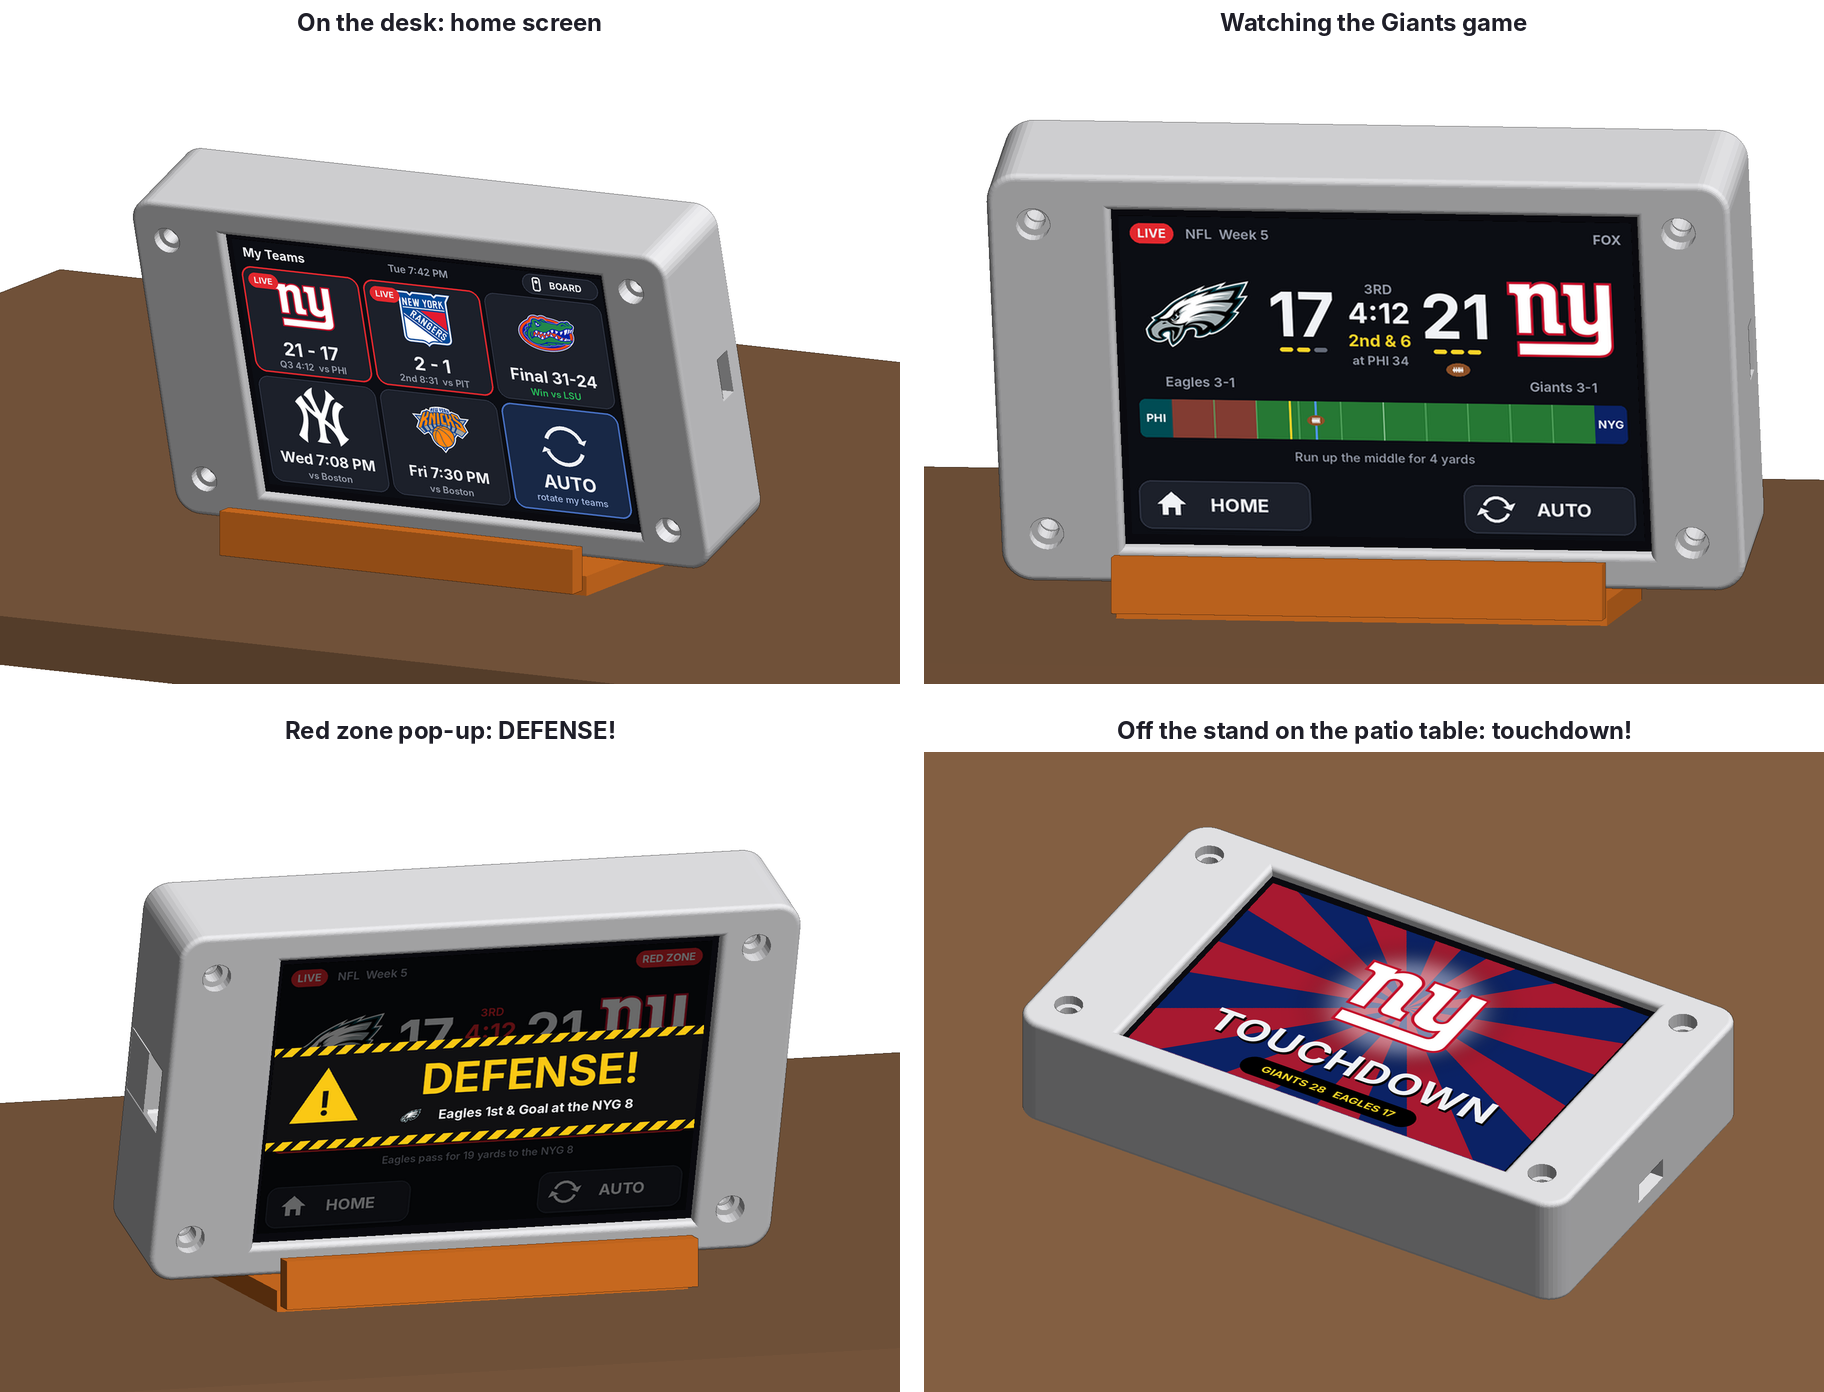
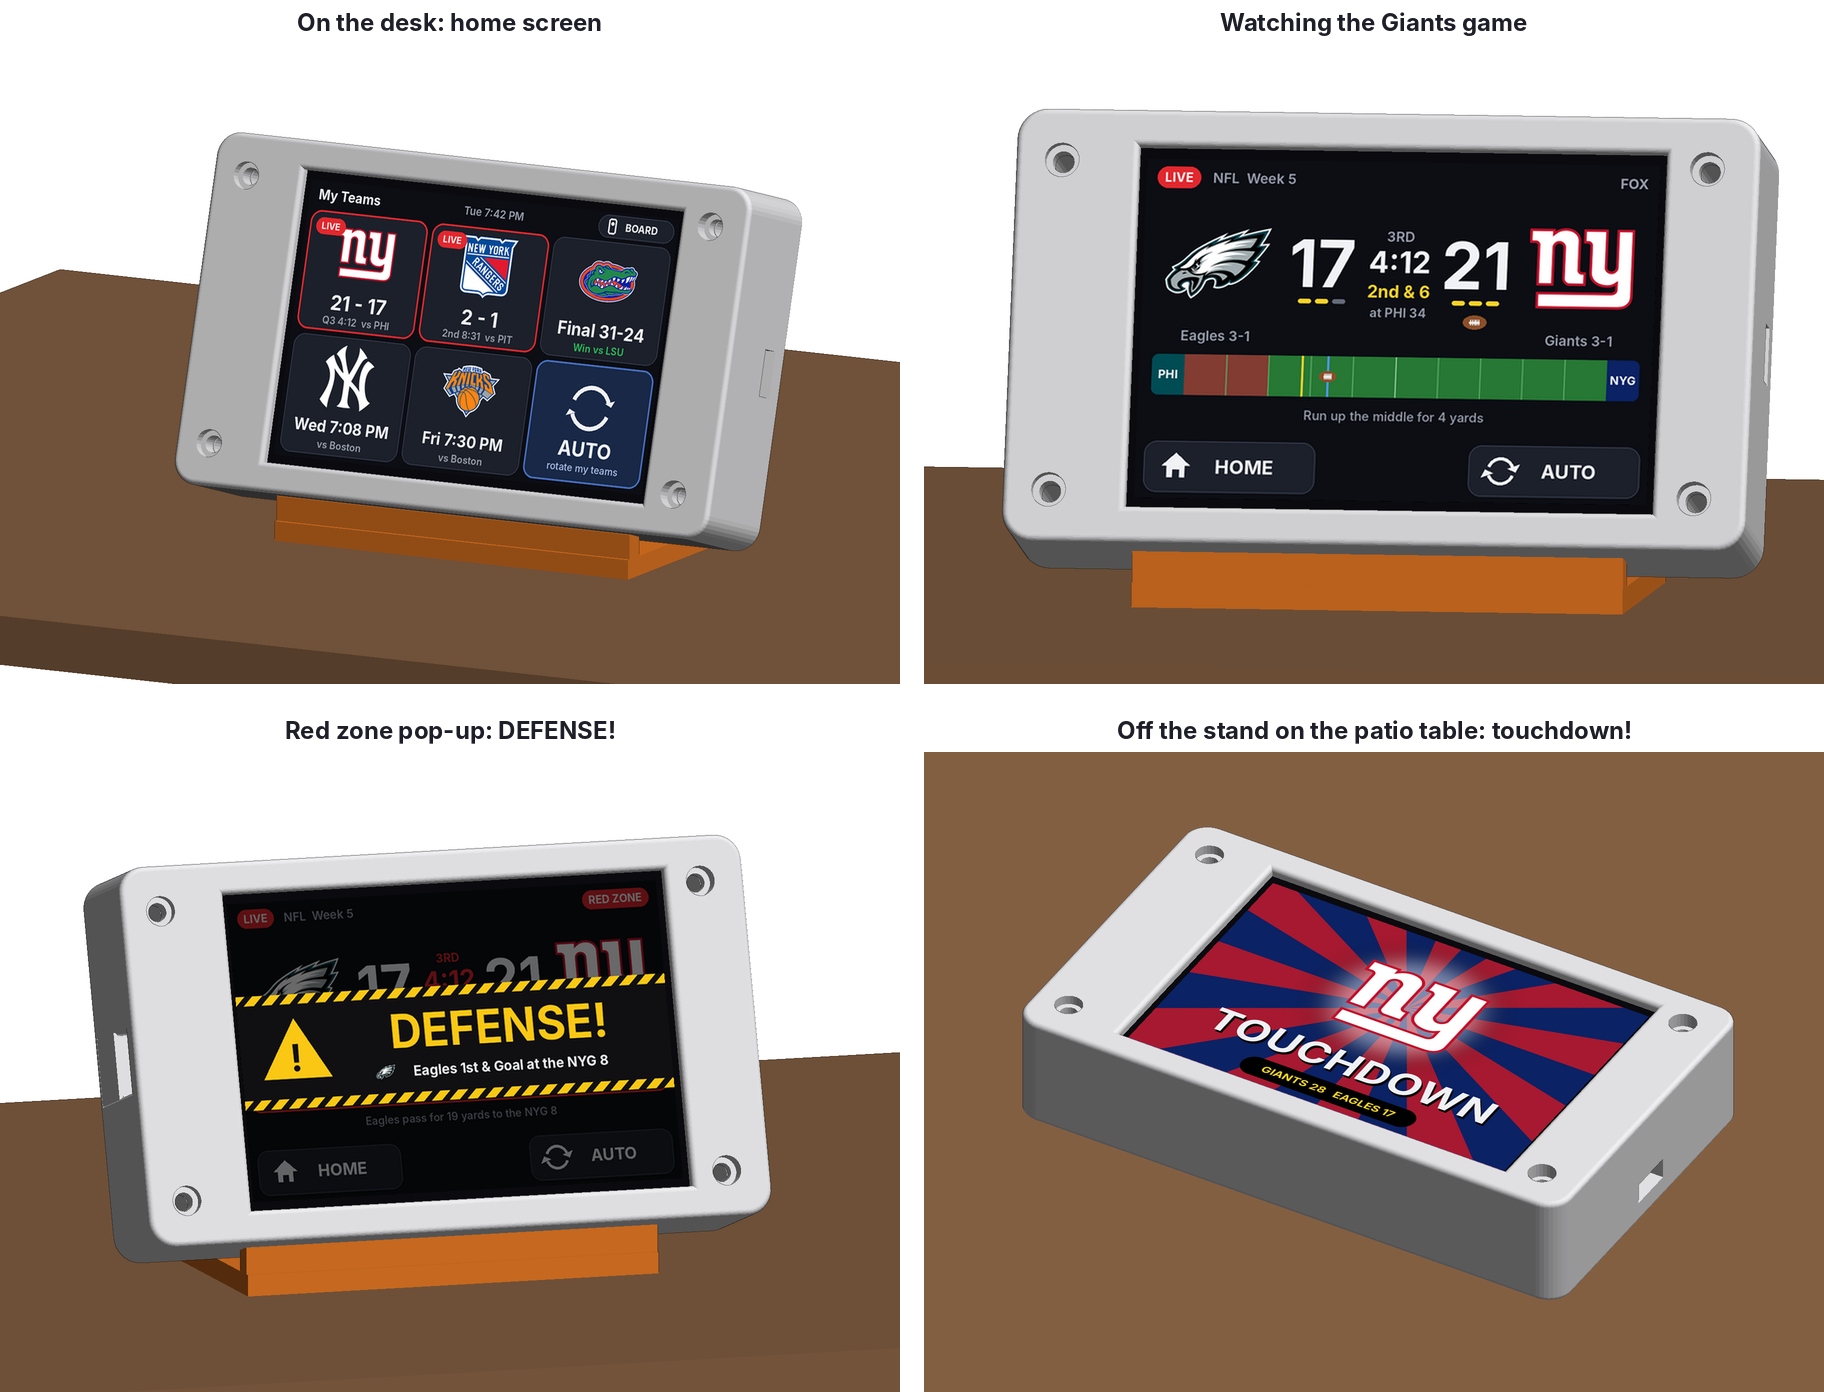
Renders: device leans back on the stand (screen tilted up)
Claude-Session: https://claude.ai/code/session_019uWkukLVfk6S6XqBL5rJhB

Changed region(s): [[0.5312, 0.0618, 1.0, 0.4634], [0.0312, 0.5869, 0.4375, 0.9576], [0.0625, 0.0927, 0.4375, 0.4325]]

diff --git a/case/scene.py b/case/scene.py
@@ -17,7 +17,7 @@ glass = trimesh.creation.box(extents=[89, 61, 0.2]); glass.apply_translation([57
 act = trimesh.creation.box(extents=[83.5, 55.7, 0.2]); act.apply_translation([57.9, 30.6, 2.95])
 AC = np.array([[57.9 - 41.75, 30.6 + 27.85, 3.05], [57.9 + 41.75, 30.6 + 27.85, 3.05], [57.9 - 41.75, 30.6 - 27.85, 3.05]])  # TL, TR, BL
 def stand_T(tilt=17):
-    T = RM(np.radians(90 + tilt), [1, 0, 0], [0, 0, 0])       # front faces -y, leaning back
+    T = RM(np.radians(90 - tilt), [1, 0, 0], [0, 0, 0])       # front faces -y and up, top leaning back
     return T
 def place(mesh, T, lift):
     m = mesh.copy(); m.apply_transform(T); m.apply_translation([0, 0, lift]); return m
@@ -47,11 +47,15 @@ def scene(screen, T, lift, extra, elev, azim, center, scale, title, W=900, H=640
 DESK = (0.55, 0.40, 0.28); ORANGE = (0.95, 0.5, 0.15)
 def desk(lift_z=0):
     d = trimesh.creation.box(extents=[400, 300, 10]); d.apply_translation([55, 60, -5 + lift_z]); return (d, DESK)
-def stand_parts(tilt=17):
-    # simple placeholder cradle: base plate, front lip, angled back support
-    p = trimesh.creation.box(extents=[80, 40, 4]); p.apply_translation([55.5, 2, 2])
-    lip = trimesh.creation.box(extents=[80, 4, 9]); lip.apply_translation([55.5, -22, 6])
-    back = trimesh.creation.box(extents=[70, 4, 42]); back.apply_transform(RM(np.radians(-tilt), [1, 0, 0], [0, 0, 0])); back.apply_translation([55.5, 14, 22])
+def stand_parts(tilt, dev):
+    # simple placeholder cradle: base plate, front lip, back support leaning with the device
+    v = dev.vertices
+    front = v[v[:, 2] < 8][:, 1].min()
+    band = v[(v[:, 2] > 25) & (v[:, 2] < 35)]; backy = band[:, 1].max()
+    p = trimesh.creation.box(extents=[80, 50, 4]); p.apply_translation([55.5, front + 20, 2])
+    lip = trimesh.creation.box(extents=[80, 4, 9]); lip.apply_translation([55.5, front - 2.2, 4.5])
+    back = trimesh.creation.box(extents=[70, 4, 40]); back.apply_transform(RM(np.radians(-tilt), [1, 0, 0], [0, 0, 0]))
+    back.apply_translation([55.5, backy + 2.2 - 30 * np.tan(np.radians(tilt)) + 20 * np.tan(np.radians(tilt)), 20])
     return [(p, ORANGE), (lip, ORANGE), (back, ORANGE)]
 T = stand_T(17)
 # device sits on the stand plate (top of plate z=4); lift so lowest point rests at z=4
@@ -60,7 +64,8 @@ lift = 4.5 - lowest
 # shift device so its back rests near the support: compute y range
 yy = trimesh.transform_points(np.vstack([base.vertices]), T)[:, 1]
 print("device y range", yy.min(), yy.max())
-extra = [desk()] + stand_parts(17)
+dev = trimesh.util.concatenate([place(base, T, lift), place(lid, T, lift)])
+extra = [desk()] + stand_parts(17, dev)
 home = crop("mini_mockups.png", 0); live = crop("mini_mockups.png", 1); td = crop("mini_mockups.png", 4)
 defense = crop("mini_redzone_opp.png", 1); final = crop("mini_mockups.png", 2)
 cen = (55, 0, 40)
